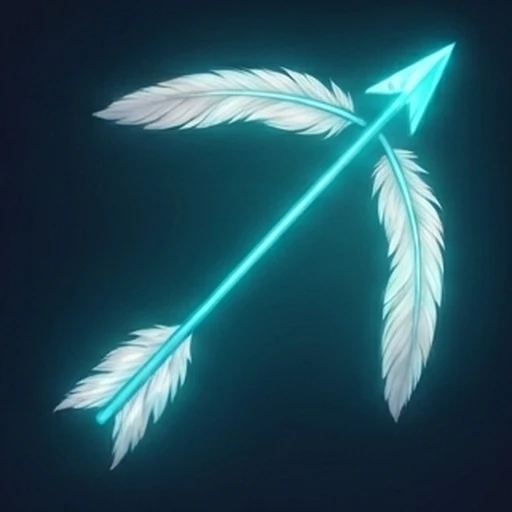
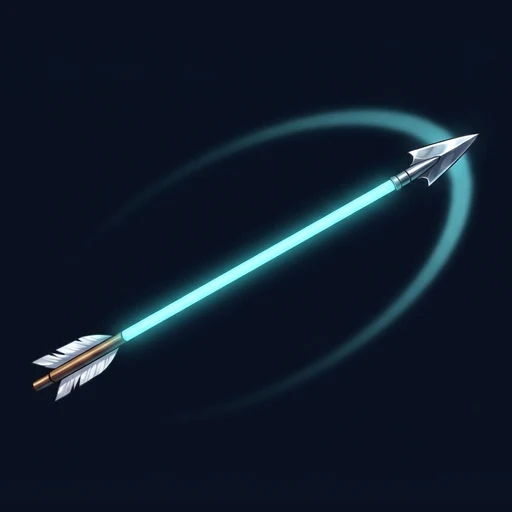
content(js): el guardia de la calesita con ficha, imágenes y hoja; flecha de regreso rehecha
R01-N03-P6 se rehízo con su hoja (antes el guardia era otro hombre).

diff --git a/docs/ESCENAS.md b/docs/ESCENAS.md
@@ -87,7 +87,7 @@ Qué anduvo (C#, con `GEMINI_3_8_FLASH`; el modelo liviano lo achica y le deja m
 | Ensamblador (antes) | 26 de 31 | Faltan `R01-N03-P7` y `R01-N04-P1`, `P3`, `P6` y `P7` (2026-10-19): las que llevan a Axón o a Kira se cortan por tiempo, con su ficha o descritos con palabras; las de Nova sola salen. En `R01-N04-P5` Stitch cambió a Nova (pelo castaño corto) y se corrigió con [escena, ficha de Nova] y «la chica pasa a ser Nova exactamente como en la segunda»; en `P2` y `P4` sobraba un Gheco (pedir «borrá el gecko de…»). Para rehacer si sobra cuota: `R01-N03-P3` y `P4` (la mochila salió con 3 y 4 bolsillos, no 5) y `P6` (Nova repite la pose de `P5` y no saca la moneda). En R01-N03 anduvo pedir con una sola referencia, la escena `R01-N03-P1` (`9010b157…`), y la mochila de `P3` (`eb5697f1…`); con dos referencias se cortaba seguido. Las primeras 17, en el **proyecto de C** (el Gólem duerme debajo de las Forjas). Nova, Axón, el fondo del interior del Gólem, el logo, la moneda (chispa) y los 6 aspectos de Nova se generaron ahí (`REFS['ensamblador']`). Las escenas usan como referencia el fondo + la ficha de Nova + Gheco, o una escena anterior del mismo lugar (la sala del ojo, la pared de cajones); encadenar siempre la misma da poses repetidas: alternar. Los 6 aspectos salieron en una sola hoja 3×2 recortada con PIL. El 2026-10-19 Nova pasó al diseño recatado (capa de cuello alto, ropa opaca; ficha `66dcc917…`): las 17 escenas, la ficha de Axón y los aspectos se rehicieron con `edit_screens` [escena, ficha de Nova] y el pedido «la chica holograma pasa a ser Nova exactamente como en la segunda, misma pose y lugar». Revisar que no aparezca texto en los visores. |
 | PHP | 273 de 273 | **Completo (2026-10-26)**; falta importar en local y `deploy.sh --cursos`. Lecciones del cierre (S03-N03 a S04): con el modelo liviano anduvo pedir «from scratch» con las fichas de Nilo e Iara (`3defe2e1…`, `5d09d4c2…`) cuando la escena anterior como referencia le sacaba a Nilo la gorra y la bufanda o lo vestía de remera; encadenar la misma escena repite la pose (y una vez salieron dos Nilos y dos Gheco). Si Stitch devuelve un enlace de `stitch.googleapis.com` (pide credenciales), bajar con `download_file` y pasarle a `guardar.py` el .txt de la respuesta. Un pedido de corrección a veces vuelve cuadrado (1024×1024): repetirlo pidiendo «same horizontal 16:9 format». Arreglos con PIL: una orca de más en el cielo (`S03-N03-P3`), letreros y pizarrones con letras (`S04-N01-P1`, `S04-N03-P2` «HARBOR» en tiza, `S04-N04-P3`, `S04-N05-P1`, `S04-N05-P2`) y garabatos en un papel (`S04-N03-P1`). Se rehizo `S04-N01-P1` porque el vidrio roto parecía un robo (alumnos chicos). Antes: Micro-misiones de D111 desde el 2026-10-21; el 2026-10-23 se completaron R01 y R02 y R03-N01 a N03; el 2026-10-25/26, R03, R04, R05 y S01-N01 a N04-P2 (ids en `scripts/escenas/ids/php.json`); sigue `S01-N04-P3`. Ojo en R05: la cola de Gheco se le pegaba a Nilo como cola cian (pedir «an ordinary human boy with no tail»); Elefa lejos sale vestida como Nilo (traerla al frente y describir la armadura «head to toe»); el bolso remendado de Nilo trae a veces un parche cian con forma de gecko, que vale (Iara se lo cosió después de la Gorgona). `guardar.py` ya recorta solo las franjas negras que agrega Stitch. Antes: sigue `R03-N05-P1`; antes `R01-N05-P6`. Lo que anduvo: las fichas con «from scratch» o la escena anterior como única referencia; si la anterior tiene un barco o un objeto llamativo, lo arrastra (el barco tortuga). Elefa sale del tamaño de una persona si no se pide «HUGE, almost one meter taller than every person»; volvió la cola cian suelta (corregida con «remove the glowing cyan tail»). Stitch escribió «La Fonda del Puerto» en el cartel porque lo puso en su propio pedido: corregir con «plain bare wood with a small carved drawing». La pipa del capitán de `R01-N03-P7` se sacó (alumnos chicos). Antes: la Clase 0 y R01 completos (2026-10-13), más 18 sueltas de R03–R05 hechas para la temporada del Puerto (2026-10-14, fila de abajo); R02-N01 a R02-N08 (2026-10-18), encadenando cada escena con la anterior del mismo lugar; sigue `R02-N08-P4`. Ojo en R02: Stitch escribió «LEFT/RIGHT» junto a flechas y rotulitos en estantes (tapados con PIL), a veces dibuja un segundo Gheco en un cartel o le da a Elefa dos bastones (pedir «sostiene con LAS DOS MANOS su ÚNICO bastón»); con la referencia de una escena, Iara y Elefa pueden perder su ropa: corregir pasando su ficha como segunda referencia. La Sirena ya está descrita con blusa cerrada en los .md y en PERSONAJES.md. Ojo: a veces sale un segundo Gheco o una cola cian suelta; pedir «UN SOLO Gheco». Para rehacer si sobra cuota: `R01-N08-P4` (las cajas no quedaron una dentro de la otra). Gheco a veces sale más grande que una mano y algún número de objetos no coincide (3 cajones en vez de 4): se dejaron cuando no cambia la escena. Historia, personajes y mapa en el proyecto de PHP (`REFS['php']`, docs/historias/php.md). Ojo: una corrección con `edit_screens` puede redibujar la escena entera (la de Elefa en el mostrador perdió la gorra de Nilo al arreglarle la bufanda): mirar cada versión. |
 | C# | 25 de 25 | Demostración completa (2026-11-04), en el proyecto de la Feria; el 2026-11-05 se rehicieron las 10 con Gheco para que sea el oficial (ver arriba). Con Ceci, usar siempre su ficha `6d9cb358…` como referencia, y pedir «pantalón oscuro, sin falda»: tomando como referencia una escena con ella, salía con falda. |
-| JavaScript | 313 de 313 | Completo (2026-11-06). En los puestos de tiro, Stitch metía rifles: pedir «puesto de feria de arquería» y «sin armas de fuego» (`S05`). Carteles de fondo con letras: `S05-N02-P2` y `S05-N01-P4`, desenfocados. Nima va siempre con su hoja `57f36ad3…` además de `c1beb5a9…`; sin la hoja sale con chaqueta corta. **Regla del docente (2026-11-06): cada personaje de una escena va con su hoja de 8 ángulos**, para mantener las proporciones; una escena anterior puede sumarse para el lugar, pero no la reemplaza. `pendientes.py` no reconocía «troll» y «dragón» en minúscula: `R04-N08` y `R05-N07` salieron con otro diseño y se rehicieron con su hoja (ya corregido). La polilla de `S01-N04` se hizo con su imagen `02a2e132…`, no con la hoja: coincide y quedó. **Lo que más rindió:** pedidos cortos con 1 a 3 referencias, unas 3 escenas cada 2 minutos; con 5 se corta más. Si dice «ya está generada» sin devolverla, otra referencia y «Dibujá una pantalla nueva, en otra disposición». Las «crucecitas» salen como crucifijos: pedir «botoncito redondo con dos rayitas cruzadas en aspa». Se escapan letras en vidrios y pizarrones del fondo (`S01-N04-P4`, `S01-N03-P4`, tapadas): mirar cada imagen. Si Gheco va en la capucha se mezcla con Nima (`R05-N07-P1`): pedirlo en el hombro. **Desde `R04-N05-P1` Nima va con saco de cuero largo hasta los muslos** (`pendientes.py` y referencia `0f9fcc6d…`): con la chaqueta corta Stitch le dejaba la panza al aire casi siempre y el parche de `tapar.py` se notaba; las escenas anteriores siguen con la corta. Se puede pedir corto si se usa de referencia una escena buena con los mismos personajes (Nima y Saeta `a409a244…`, torre con campana `08fc7b12…`, Nilo y Elefa `b003d98a…`). Sin la referencia de cuerpo entero de Nima `2fca95e3…` (y aun con ella) se le ve piel en la cintura o la espalda: se tapa con `tapar.py … piel 24`. Si la referencia ya tiene a un personaje, puede salir repetido: pedir «exactamente tres figuras». Hilván salía aniñado o moreno: `pendientes.py` lo pide «HOMBRE ADULTO», y si salen dos iguales, pedir «exactamente UN solo Hilván» y decir dónde está parado. Los títeres de bailarina salían como chicas reales: pedirlos chiquitos, de madera con articulaciones y vestido largo. Con una «escena sin personas» conviene describir el esqueleto o la criatura. Revisar siempre cajones y carteles: en `R03-N06-P6` Stitch escribió su pedido negativo en los cajones (se tapó). Se pueden mandar 3 pedidos de Stitch a la vez. Bruno, Tati, Hilván y Gheco salían con otra ropa o color aunque estuviera la referencia: `pendientes.py` ya describe su ropa en cada pedido, y conviene sumar como referencia una escena buena con ellos (Hilván y Nima `938608ee…`, Bruno y Tati `9b10bc57…`). Los telones de fondo y los talleres con engranajes salen con runas o signos: pedir «fondo de tela lisa» y «cuarto de paredes de madera lisa, sin engranajes ni luces de colores». Los farolitos de papel salen con trazos que parecen letras chinas: pedir «lamparitas redondas de vidrio». Detalles aceptados: círculos decorativos en `R03-N02-P3` y triángulos en el telón de `R03-N02-P5`. `pendientes.py` ya arma el pedido de JS con la 2.ª referencia de Nima, «UNA sola vez», Lumina como insecto (salía hada) y el cierre corto «Imagen solo de dibujo, sin escritura» (el pedido negativo largo lo escribía en los papeles). Antes de mandar, cambiar a mano lo que invita a escribir: «cartel», «número», «cuentas», «lista» → dibujitos, rayitas de tiza, puntitos, monedas; las boleterías salen con «TICKET» en el frontón: pedir «el frontón, solo con flores pintadas»; las estrellas pintadas, como chispa; los palitos de a cinco salían como letras chinas (usar puntitos); con gente en fila, pedir aldeanos europeos (chalecos, boinas, faldas largas) o salen kimonos. Si salen dos Gheco, regenerar con «un solo Gheco» (borrarlo deja mancha). Piel de Nima a la vista: `tapar.py ESCENA X0 Y0 X1 Y1 piel 24` la pinta como remera oscura. Los orcos de feria usan la referencia del ogro de la Feria (gris azulado, pelo naranja; sin ella salían como goblins). Stitch sigue escribiendo su propio pedido negativo («ABSOLUTELY NO LETTERS…») en papeles y carteles, y a veces deja a Nima con la panza al aire aun con la 2.ª referencia: se tapan con `python3 scripts/escenas/tapar.py ESCENA X0 Y0 X1 Y1 oscuro|claro UMBRAL` (letras oscuras o piel clara, rellenando con lo de alrededor); las ediciones de Stitch para arreglarlo a veces rehacen la escena entera o la parten en dos viñetas. Proyecto de los **Talleres** (`9229721314509917104`, ahí estaban Nima, Lumina y Gheco); la gente de la Feria y los cruces (Nilo, Iara, Elefa, Pico, Nova, Axón) se dibujaron ahí el 2026-10-30 (ids en `REFS['javascript']`). **Lecciones:** «faroles de papel» vuelve la Feria un festival japonés con letras orientales y máscaras: el ambiente pide «feria de pueblo europea antigua… nada oriental»; pizarras: describir lo que tienen (estrellitas, círculos de tiza), nunca «sin letras» (escribió «NO letters» en la pizarra); estrellas pintadas, «rellenas» o un sol (salió un pentagrama); Gheco con una lupa sale enorme: «cabe en la palma de una mano»; los ogros de feria, verdes, salían como Shrek: ahora tienen referencia propia (gris azulado, pelo naranja); si un cartel sale con letras, se corrige editando esa misma pantalla («borrá las letras y pintá estrellitas»), pero a veces la edición rehace toda la escena (Nima salió de soldado): si pasa, generarla de nuevo desde las referencias, describiendo qué tiene dibujado cada papelito. Con el modelo liviano Nima a veces sale con la panza al aire: por eso lleva de segunda referencia la escena de la calesita (R01-N03-P1); `pendientes.py` pone una sola pantalla por personaje, así que esa se agrega a mano. Una vez escribió el pedido negativo como texto al pie: se recorta la franja. Con 2–3 referencias y el modelo liviano salen casi todas al primer intento. Fermín ya tiene hoja en este proyecto (`60e47b3f…`, 2026-11-07) y `S02-N04-P3` se rehízo con ella. |
+| JavaScript | 313 de 313 | Completo (2026-11-06). En los puestos de tiro, Stitch metía rifles: pedir «puesto de feria de arquería» y «sin armas de fuego» (`S05`). Carteles de fondo con letras: `S05-N02-P2` y `S05-N01-P4`, desenfocados. Nima va siempre con su hoja `57f36ad3…` además de `c1beb5a9…`; sin la hoja sale con chaqueta corta. **Regla del docente (2026-11-06): cada personaje de una escena va con su hoja de 8 ángulos**, para mantener las proporciones; una escena anterior puede sumarse para el lugar, pero no la reemplaza. `pendientes.py` no reconocía «troll» y «dragón» en minúscula: `R04-N08` y `R05-N07` salieron con otro diseño y se rehicieron con su hoja (ya corregido). La polilla de `S01-N04` se hizo con su imagen `02a2e132…`, no con la hoja: coincide y quedó. **Lo que más rindió:** pedidos cortos con 1 a 3 referencias, unas 3 escenas cada 2 minutos; con 5 se corta más. Si dice «ya está generada» sin devolverla, otra referencia y «Dibujá una pantalla nueva, en otra disposición». Las «crucecitas» salen como crucifijos: pedir «botoncito redondo con dos rayitas cruzadas en aspa». Se escapan letras en vidrios y pizarrones del fondo (`S01-N04-P4`, `S01-N03-P4`, tapadas): mirar cada imagen. Si Gheco va en la capucha se mezcla con Nima (`R05-N07-P1`): pedirlo en el hombro. **Desde `R04-N05-P1` Nima va con saco de cuero largo hasta los muslos** (`pendientes.py` y referencia `0f9fcc6d…`): con la chaqueta corta Stitch le dejaba la panza al aire casi siempre y el parche de `tapar.py` se notaba; las escenas anteriores siguen con la corta. Se puede pedir corto si se usa de referencia una escena buena con los mismos personajes (Nima y Saeta `a409a244…`, torre con campana `08fc7b12…`, Nilo y Elefa `b003d98a…`). Sin la referencia de cuerpo entero de Nima `2fca95e3…` (y aun con ella) se le ve piel en la cintura o la espalda: se tapa con `tapar.py … piel 24`. Si la referencia ya tiene a un personaje, puede salir repetido: pedir «exactamente tres figuras». Hilván salía aniñado o moreno: `pendientes.py` lo pide «HOMBRE ADULTO», y si salen dos iguales, pedir «exactamente UN solo Hilván» y decir dónde está parado. Los títeres de bailarina salían como chicas reales: pedirlos chiquitos, de madera con articulaciones y vestido largo. Con una «escena sin personas» conviene describir el esqueleto o la criatura. Revisar siempre cajones y carteles: en `R03-N06-P6` Stitch escribió su pedido negativo en los cajones (se tapó). Se pueden mandar 3 pedidos de Stitch a la vez. Bruno, Tati, Hilván y Gheco salían con otra ropa o color aunque estuviera la referencia: `pendientes.py` ya describe su ropa en cada pedido, y conviene sumar como referencia una escena buena con ellos (Hilván y Nima `938608ee…`, Bruno y Tati `9b10bc57…`). Los telones de fondo y los talleres con engranajes salen con runas o signos: pedir «fondo de tela lisa» y «cuarto de paredes de madera lisa, sin engranajes ni luces de colores». Los farolitos de papel salen con trazos que parecen letras chinas: pedir «lamparitas redondas de vidrio». Detalles aceptados: círculos decorativos en `R03-N02-P3` y triángulos en el telón de `R03-N02-P5`. `pendientes.py` ya arma el pedido de JS con la 2.ª referencia de Nima, «UNA sola vez», Lumina como insecto (salía hada) y el cierre corto «Imagen solo de dibujo, sin escritura» (el pedido negativo largo lo escribía en los papeles). Antes de mandar, cambiar a mano lo que invita a escribir: «cartel», «número», «cuentas», «lista» → dibujitos, rayitas de tiza, puntitos, monedas; las boleterías salen con «TICKET» en el frontón: pedir «el frontón, solo con flores pintadas»; las estrellas pintadas, como chispa; los palitos de a cinco salían como letras chinas (usar puntitos); con gente en fila, pedir aldeanos europeos (chalecos, boinas, faldas largas) o salen kimonos. Si salen dos Gheco, regenerar con «un solo Gheco» (borrarlo deja mancha). Piel de Nima a la vista: `tapar.py ESCENA X0 Y0 X1 Y1 piel 24` la pinta como remera oscura. Los orcos de feria usan la referencia del ogro de la Feria (gris azulado, pelo naranja; sin ella salían como goblins). Stitch sigue escribiendo su propio pedido negativo («ABSOLUTELY NO LETTERS…») en papeles y carteles, y a veces deja a Nima con la panza al aire aun con la 2.ª referencia: se tapan con `python3 scripts/escenas/tapar.py ESCENA X0 Y0 X1 Y1 oscuro|claro UMBRAL` (letras oscuras o piel clara, rellenando con lo de alrededor); las ediciones de Stitch para arreglarlo a veces rehacen la escena entera o la parten en dos viñetas. Proyecto de los **Talleres** (`9229721314509917104`, ahí estaban Nima, Lumina y Gheco); la gente de la Feria y los cruces (Nilo, Iara, Elefa, Pico, Nova, Axón) se dibujaron ahí el 2026-10-30 (ids en `REFS['javascript']`). **Lecciones:** «faroles de papel» vuelve la Feria un festival japonés con letras orientales y máscaras: el ambiente pide «feria de pueblo europea antigua… nada oriental»; pizarras: describir lo que tienen (estrellitas, círculos de tiza), nunca «sin letras» (escribió «NO letters» en la pizarra); estrellas pintadas, «rellenas» o un sol (salió un pentagrama); Gheco con una lupa sale enorme: «cabe en la palma de una mano»; los ogros de feria, verdes, salían como Shrek: ahora tienen referencia propia (gris azulado, pelo naranja); si un cartel sale con letras, se corrige editando esa misma pantalla («borrá las letras y pintá estrellitas»), pero a veces la edición rehace toda la escena (Nima salió de soldado): si pasa, generarla de nuevo desde las referencias, describiendo qué tiene dibujado cada papelito. Con el modelo liviano Nima a veces sale con la panza al aire: por eso lleva de segunda referencia la escena de la calesita (R01-N03-P1); `pendientes.py` pone una sola pantalla por personaje, así que esa se agrega a mano. Una vez escribió el pedido negativo como texto al pie: se recorta la franja. Con 2–3 referencias y el modelo liviano salen casi todas al primer intento. Fermín ya tiene hoja en este proyecto (`60e47b3f…`, 2026-11-07) y `S02-N04-P3` se rehízo con ella. El guardia de la calesita también tiene hoja (`327e490d…`, con números arriba de las figuras que Stitch no quiso sacar) y `R01-N03-P6` se rehízo con él (en la vieja el guardia era otro hombre). |
 | Inglés · Forjas (temporada 2) | 24 de 24 | Completo (2026-10-14): una portada por episodio, tronco y ramas, `FORJAS-01` a `FORJAS-12` (Ada niña) y `FORJAS-S01` a `FORJAS-S12` (Ada de 15), en `cursos/ingles/escenas/`; las misiones reusan las de C. Hechas en el **proyecto de C** (`12453694413360128121`): Stitch solo toma referencias del mismo proyecto, así que primero se recrearon las hojas de Ada niña (`4eb59d68037844c09f3cf2aafdd77cd4`) y de Ada de 15 (`a94bdbb01fe44e2eb49eea421419838c`) con Eco y el Borrón desde sus fichas, y después cada portada con la hoja + el personaje de la región. **Cada temporada nueva repite esto en el proyecto de su región.** De a una llamada (dos en paralelo ya se cortan); para pasar una escena de Ada niña a Ada de 15, «como la segunda, pero con Ada de 15 de la primera» con la portada de Primaria como referencia sale a la primera. Ojo: a veces le saca las cejas o el pelo a quien no corresponde, o escribe un título: revisar cada una. |
 | Inglés · Puerto (temporada 3) | 24 de 24 | Completo (2026-10-14): `PUERTO-01` a `PUERTO-12` (Ada niña) y `PUERTO-S01` a `PUERTO-S12` (Ada de 15) en `cursos/ingles/escenas/`, hechas en el **proyecto de PHP** con las hojas de Ada recreadas ahí (niña `fd32dbcd41874f3ebedd1802bb364b76`, de 15 `ec1abd3a409d48b58277a0408b62d043`). Para las de Secundaria anduvo mejor el pedido **corto** «como la segunda, con Ada de 15 y Eco joven de la primera» (los largos se cortan por tiempo). Ojo: la Sirena salió sin mangas en una (corregida: blusa cerrada con mangas y cuello alto), en otra quedaron dos Ecos y en otra un título y palabras en el agua. De paso se hicieron **18 escenas de PHP** (R01-N10-P3/P4, R03-N04, R04-N01, R04-N02-P1, R04-N07, R05-N06-P3, R05-N07, R05-N08-P2) que usan el curso y la temporada; usar la escena anterior como única referencia (con los personajes ya dibujados) es lo que menos se corta. |
 | Inglés · Ciudadela (temporada 4) | 24 de 24 | Completo (2026-10-14): `CIUDADELA-01` a `12` (Ada niña) y `CIUDADELA-S01` a `S12` (Ada de 15) en `cursos/ingles/escenas/`, hechas en el **proyecto de C++** (`14674491267148198305`) con las hojas de Ada recreadas ahí (niña `d78c472031ae4da8b564180cc607e12b`, de 15 `888fedb546b049779bc0758f69293c42`; la primera hoja dibujó al Borrón como un gato: pedir «mancha sin patas, orejas ni cola»). `S08` a `S12` se hicieron cuando volvió la cuota de Stitch; en `S08` quedaron dos Adas y en `S10` la de 15 salió del tamaño de la nena: las dos se corrigieron con un segundo pedido. Ojo: una portada que parte de otra escena arrastra lo de esa escena (la cocina salió inundada por usar la portada del comedor como referencia; se rehízo desde la escena seca de C++).

diff --git a/docs/JAVASCRIPT-TYPESCRIPT.md b/docs/JAVASCRIPT-TYPESCRIPT.md
@@ -242,12 +242,12 @@ Publicado por el docente el 2026-11-07, y destacado para que salga entre los cur
 | Lumina de cuerpo entero (Mis Crónicas) | hecho: `php artisan app:glossary-portraits cursos/javascript/figuras --figuras --apply`, **también en producción** |
 | Nima, sus 6 aspectos y Destello | hecho (`config/game.php`) |
 | La tienda del Flaco Ruiz | hecho |
-| 16 ítems de la tienda y el taller, y los 5 de los jefes, con imagen | hecho: `php artisan app:item-images cursos/javascript/items --apply`, **también en producción**. Hojas en Stitch (proyecto de la Feria): `7138aba8…`, `239bce28…` y `9487a077…` |
+| 16 ítems de la tienda y el taller, y los 5 de los jefes, con imagen | hecho: `php artisan app:item-images cursos/javascript/items --apply`, **también en producción**. Hojas en Stitch (proyecto de la Feria): `7138aba8…`, `239bce28…` y `9487a077…`; la Flecha de Regreso se rehízo sola (`2756749c…`) porque salió con plumas sueltas |
 | Expediciones: 16 lugares y el mapa | hecho. Mapa `c9b6ec4f…`, sin letras: los nombres los pone la plataforma |
 | Fichas y enciclopedia (18 personajes nuevos con retrato y cuerpo) | hecho. Las fichas se escribieron con lo que ya dice el curso: **a revisar por el docente** |
 | Enciclopedia: los jefes de Sendas (`S01`…) | hecho: `Encyclopedia::target` ahora reconoce `S` además de `R` |
 | Simulación | ver el commit |
-| El guardia de la calesita | **pendiente**: sin imagen ni ficha; aparece poco |
-| Fermín en `S02-N04-P3` | **pendiente**: espera su imagen en el proyecto (ESCENAS.md) |
+| El guardia de la calesita | hecho (2026-11-07): ficha, retrato, cuerpo y hoja; `R01-N03-P6` rehecha con él |
+| Fermín en `S02-N04-P3` | hecho (2026-11-07): hoja en el proyecto de la Feria y escena rehecha |
 | Temporada en las Crónicas en Inglés | **pendiente**: siguen el Valle y el Imperio ([INGLES.md](INGLES.md) § 8) |
 | TypeScript | **pendiente** (§ 4) |

diff --git a/docs/historias/PERSONAJES.md b/docs/historias/PERSONAJES.md
@@ -1203,6 +1203,18 @@ Historia en [javascript.md](javascript.md). Hasta que el curso se publique, esta
 - **Primera aparición:** JavaScript, R01-N01.
 - **Imágenes:** hoja `d72a9311…` en el proyecto de la Feria.
 
+### El guardia de la calesita
+- **Curso y rol:** JavaScript, el que cuida la entrada de la calesita y de la montaña rusa: deja pasar a unos sí y a otros no, según las reglas.
+- **Edad y sexo:** unos cincuenta, varón.
+- **Altura y contextura:** grandote y corpulento.
+- **Rasgos:** cara redonda y amable, barba de pocos días.
+- **Ropa:** **gorra de feria azul oscuro**, camisa gris de mangas largas, **chaleco oscuro abotonado**, pantalón y botas negras. Ropa opaca y cerrada.
+- **Objeto:** **la soga roja de terciopelo** con ganchos de bronce.
+- **Personalidad:** firme pero sonriente: las reglas son las reglas, y las explica sin enojarse.
+- **Frase:** «Te falta una ficha. Volvé cuando hayas ganado más.»
+- **Primera aparición:** JavaScript, R01-N03.
+- **Imágenes:** cuerpo entero `7054bc84…` y hoja `327e490d…` en el proyecto de la Feria (la hoja trae números arriba de las figuras: Stitch no los quiso sacar).
+
 ### Bengala
 - **Curso y rol:** JavaScript, la pirotécnica de la explanada de los fuegos.
 - **Edad y sexo:** joven, mujer.
